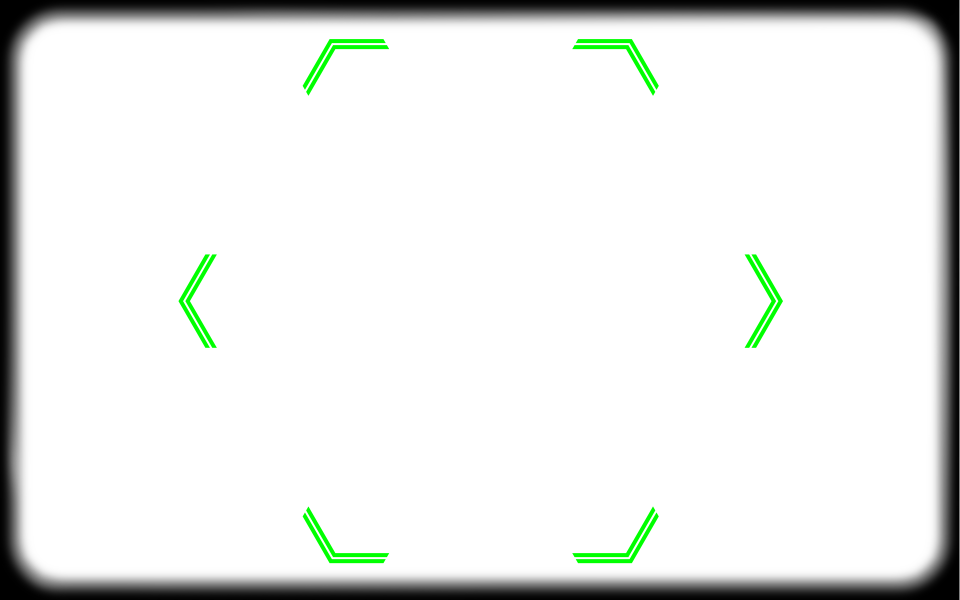
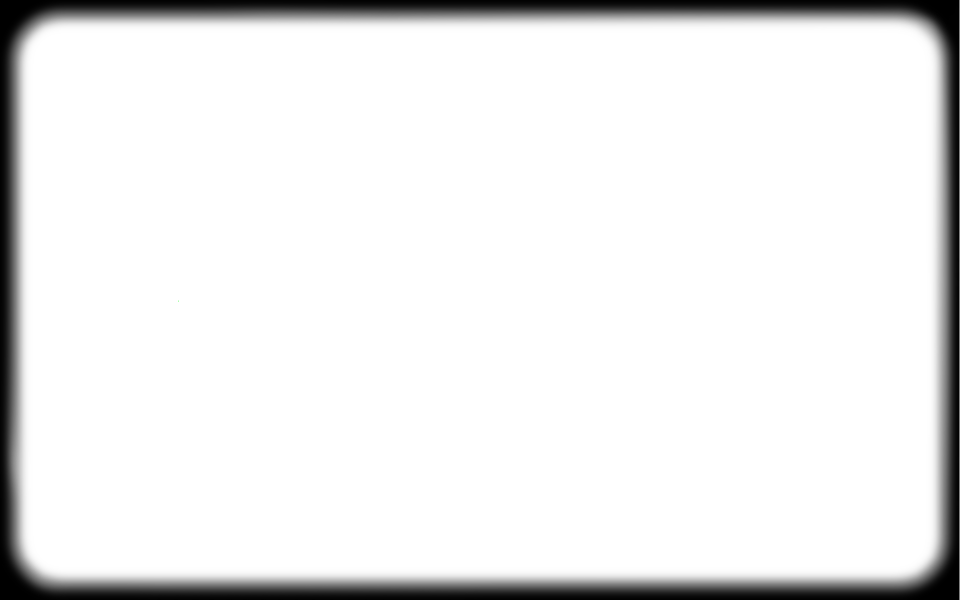
hiding gui during play

diff --git a/Assets/Scripts/SpacecraftController.cs b/Assets/Scripts/SpacecraftController.cs
@@ -27,7 +27,8 @@ public class SpacecraftController : MonoBehaviour {
 	private Vector3 rotationAcceleration;
 	private Vector3 rotationSpeed;
 
-	public Texture2D crosshairImage;
+
+	public GUITexture crosshair;
 
 	public GUIText distanceX;
 	public GUIText distanceY;
@@ -89,6 +90,7 @@ public class SpacecraftController : MonoBehaviour {
 
 	void OnGUI()
 	{
+
 		//float xMin = (Screen.width / 2) - (crosshairImage.width / 2);
 		//float yMin = (Screen.height / 2) - (crosshairImage.height / 2);
 		//GUI.DrawTexture(new Rect(xMin, yMin, crosshairImage.width, crosshairImage.height), crosshairImage);
@@ -97,54 +99,66 @@ public class SpacecraftController : MonoBehaviour {
 	void Update()
 	{
 		if (this.playing) {
-			this.distanceX.text = "Distance X " + rigidbody.position.x.ToString("n3") ;
-			if (!this.checkPositionX ()) {
-					this.distanceX.color = Color.red;
-			} else {
-					this.distanceX.color = Color.green;
-			}
-			this.distanceY.text = "Distance Y " + rigidbody.position.y.ToString("n3") ;
-			if (!this.checkPositionY ()) {
-					this.distanceY.color = Color.red;
-			} else {
-					this.distanceY.color = Color.green;
-			}
-			this.distanceZ.text = "Distance Z " + rigidbody.position.z.ToString("n3") ;
-			if (!this.checkPositionZ ()) {
-					this.distanceZ.color = Color.red;
-			} else {
-					this.distanceZ.color = Color.green;
-			}
+			if (!this.paused) {
+				this.distanceX.text = "Distance X " + rigidbody.position.x.ToString("n3") ;
+				if (!this.checkPositionX ()) {
+						this.distanceX.color = Color.red;
+				} else {
+						this.distanceX.color = Color.green;
+				}
+				this.distanceY.text = "Distance Y " + rigidbody.position.y.ToString("n3") ;
+				if (!this.checkPositionY ()) {
+						this.distanceY.color = Color.red;
+				} else {
+						this.distanceY.color = Color.green;
+				}
+				this.distanceZ.text = "Distance Z " + rigidbody.position.z.ToString("n3") ;
+				if (!this.checkPositionZ ()) {
+						this.distanceZ.color = Color.red;
+				} else {
+						this.distanceZ.color = Color.green;
+				}
 
 
-			//this.accelerationY.text = "Acceleration Y " + this.acceleration.y.ToString("n3");
+				//this.accelerationY.text = "Acceleration Y " + this.acceleration.y.ToString("n3");
 
-			this.velocity.text = "Velocity " + this.rigidbody.velocity.magnitude.ToString("n3");
-			if (!this.checkVelocity ()) {
-					this.velocity.color = Color.red;
-			} else {
-					this.velocity.color = Color.green;
-			}
-            
-			this.rotationY.text = "Rotation Y " + this.rigidbody.rotation.eulerAngles.y.ToString("n3");
-			if (!this.checkRotationY ()) {
-					this.rotationY.color = Color.red;
-			} else {
-					this.rotationY.color = Color.green;
-			}
+				this.velocity.text = "Velocity " + this.rigidbody.velocity.magnitude.ToString("n3");
+				if (!this.checkVelocity ()) {
+						this.velocity.color = Color.red;
+				} else {
+						this.velocity.color = Color.green;
+				}
+	            
+				this.rotationY.text = "Rotation Y " + this.rigidbody.rotation.eulerAngles.y.ToString("n3");
+				if (!this.checkRotationY ()) {
+						this.rotationY.color = Color.red;
+				} else {
+						this.rotationY.color = Color.green;
+				}
 
-			this.rotationX.text = "Rotation X " + (this.rigidbody.rotation.eulerAngles.x - 90).ToString("n3");
-			if (!this.checkRotationX ()) {
-					this.rotationX.color = Color.red;
-			} else {
-					this.rotationX.color = Color.green;
-			}
+				this.rotationX.text = "Rotation X " + (this.rigidbody.rotation.eulerAngles.x - 90).ToString("n3");
+				if (!this.checkRotationX ()) {
+						this.rotationX.color = Color.red;
+				} else {
+						this.rotationX.color = Color.green;
+				}
 
-			this.rotationZ.text = "Rotation Z " + this.rigidbody.rotation.eulerAngles.z.ToString("n3");
-			if (!this.checkRotationZ ()) {
-					this.rotationZ.color = Color.red;
+				this.rotationZ.text = "Rotation Z " + this.rigidbody.rotation.eulerAngles.z.ToString("n3");
+				if (!this.checkRotationZ ()) {
+						this.rotationZ.color = Color.red;
+				} else {
+						this.rotationZ.color = Color.green;
+				}
+				this.crosshair.enabled = true;
 			} else {
-					this.rotationZ.color = Color.green;
+				this.distanceX.text = "";
+				this.distanceY.text = "";
+				this.distanceZ.text = "";
+				this.rotationX.text = "";
+				this.rotationY.text = "";
+				this.rotationZ.text = "";
+				this.velocity.text = "";
+				this.crosshair.enabled = false;
 			}
 
 		} else if (!this.gameOver) {
